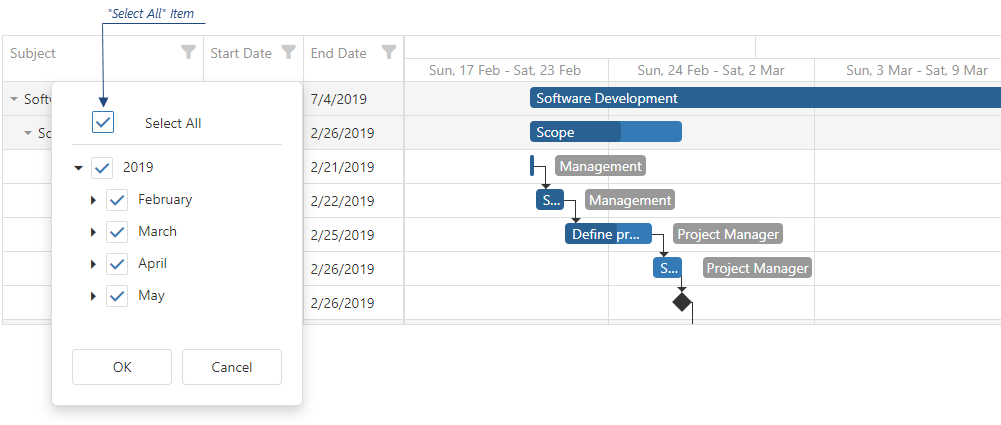
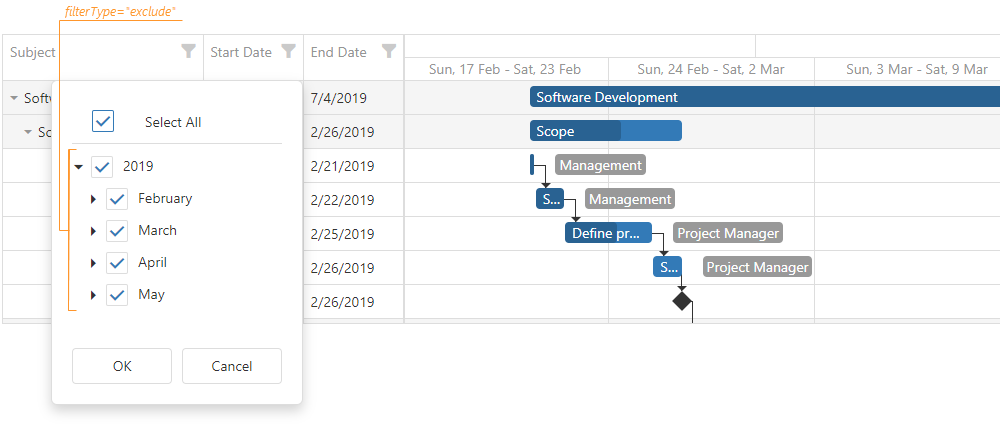
upd1.1

diff --git a/concepts/05 UI Components/Gantt/20 Filter Data/2 Header Filter.md b/concepts/05 UI Components/Gantt/20 Filter Data/2 Header Filter.md
@@ -1,6 +1,6 @@
 The **Gantt** component allows users to filter a particular column by values listed in a pop-up window. Users click the filter icon to invoke the window and select the necessary filter criteria for a column. 
 
-Set the **headerFilter**.[visible](/Documentation/ApiReference/UI_Components/dxGantt/Configuration/headerFilter/#visible) property to **true** to display filter icons for all columns. Assign the [allowHeaderFiltering](/Documentation/ApiReference/UI_Components/dxGantt/Configuration/columns/#allowHeaderFiltering) property to **false** for a column to disable its filter icon. If this property is not specified, it inherits a value of the [allowFiltering](/Documentation/ApiReference/UI_Components/dxGantt/Configuration/columns/#allowFiltering) property.
+Set the **headerFilter**.[visible](/Documentation/ApiReference/UI_Components/dxGantt/Configuration/headerFilter/#visible) property to **true** to display filter icons for all columns. Assign **false** to the [allowHeaderFiltering](/Documentation/ApiReference/UI_Components/dxGantt/Configuration/columns/#allowHeaderFiltering) property for a column to disable its filter icon. If this property is not specified, it inherits a value of the [allowFiltering](/Documentation/ApiReference/UI_Components/dxGantt/Configuration/columns/#allowFiltering) property.
 
 ![DevExtreme HTML5 JavaScript jQuery Knockout Angular Gantt Filtering HeaderFilter](/images/Gantt/Visual_elements/Header_filter.png)
 
@@ -8,7 +8,7 @@ Set the **headerFilter**.[visible](/Documentation/ApiReference/UI_Components/dxG
     url: "https://js.devexpress.com/Demos/WidgetsGallery/Demo/Gantt/HeaderFilter/"
 }
 
-You can use a column's [filterType](/Documentation/ApiReference/UI_Components/dxGantt/Configuration/columns/#filterType) property to set the initial settings of header fiter items: all checked (`filterType=exclude`) or all unchecked (`filterType=include`).
+You can use a column's [filterType](/Documentation/ApiReference/UI_Components/dxGantt/Configuration/columns/#filterType) property to set initial settings of header fiter items: all checked (`filterType=exclude`) or all unchecked (`filterType=include`).
 
 ![DevExtreme HTML5 JavaScript jQuery Knockout Angular Gantt Filtering HeaderFilter](/images/Gantt/Visual_elements/Header_filter_SelectAll.png)
 
@@ -59,6 +59,7 @@ Users can search for the filter values in the header filter. Enable the **header
             [visible]="true"
             [allowSearch]="true">
         </dxo-header-filter>
+
         <dxi-column 
     	    dataField="title"
             caption="Subject"
@@ -67,6 +68,7 @@ Users can search for the filter values in the header filter. Enable the **header
             <dxo-header-filter 
                 searchMode="startswith"
             />
+            
         </dxi-column>
 
         <dxi-column
@@ -84,6 +86,7 @@ Users can search for the filter values in the header filter. Enable the **header
             <dxo-header-filter 
                 groupInterval="month"
             />
+
         </dxi-column>
         <!--...-->
     </dx-gantt>
@@ -126,6 +129,7 @@ Users can search for the filter values in the header filter. Enable the **header
                 :visible="true"
                 allowSearch="true"
             />
+            
             <DxColumn
                 data-field="title"
                 caption="Subject"
@@ -134,6 +138,7 @@ Users can search for the filter values in the header filter. Enable the **header
                 <DxGanttHeaderFilter
                     searchMode="startswith"
                 />
+
             </DxColumn>
             
             <DxColumn
@@ -145,8 +150,10 @@ Users can search for the filter values in the header filter. Enable the **header
             <DxColumn
                 data-field="start"
                 caption="Start Date">
+
                 <DxGanttHeaderFilter
         	        groupInterval="month" />
+
             </DxColumn>
 
             <!--...-->
@@ -190,6 +197,7 @@ Users can search for the filter values in the header filter. Enable the **header
                 <HeaderFilter
                     visible={true}
                     allowSearch={true}>
+
                 <Column 
                     dataField="title"
                     caption="Subject"
@@ -198,20 +206,23 @@ Users can search for the filter values in the header filter. Enable the **header
                     <HeaderFilter
                         searchMode="startswith">
                     </HeaderFilter>
+
                 </Column>
                 
                 <Column
                     dataField="start"
                     caption="Start Date"
-                    allowHeaderFiltering= {false}>
+                    allowHeaderFiltering={false}>
                 </Column>
 
                 <Column 
                     dataField="end"
                     caption="End Date">
+
       	            <HeaderFilter
                         groupInterval="month"
                     />
+
                 </Column>
                 {/* ... */}
             </Gantt>
@@ -228,8 +239,8 @@ Users can search for the filter values in the header filter. Enable the **header
             columns.AddFor(m => m.Title)
                 .DataField("title")
                 .Caption("Subject")
-                .FilterType("Exclude")
-                .HeaderFilter(headerFilter => headerFilter.SearchMode("StartsWith"));
+                .FilterType(FilterType.Exclude)
+                .HeaderFilter(headerFilter => headerFilter.SearchMode(CollectionSearchMode.StartsWith));
 
             columns.AddFor(m => m.Title)
                 .DataField("start")
@@ -239,7 +250,7 @@ Users can search for the filter values in the header filter. Enable the **header
             columns.AddFor(m => m.Title)
                 .DataField("end")
                 .Caption("End Date")
-                .HeaderFilter(headerFilter => headerFilter.GroupInterval("Month"));
+                .HeaderFilter(headerFilter => headerFilter.GroupInterval(HeaderFilterGroupInterval.Month));
             @* ... *@
         })
         .HeaderFilter(e => {
@@ -258,8 +269,8 @@ Users can search for the filter values in the header filter. Enable the **header
             columns.AddFor(m => m.Title)
                 .DataField("title")
                 .Caption("Subject")
-                .FilterType("Exclude")
-                .HeaderFilter(headerFilter => headerFilter.SearchMode("StartsWith"));
+                .FilterType(FilterType.Exclude)
+                .HeaderFilter(headerFilter => headerFilter.SearchMode(CollectionSearchMode.StartsWith));
 
             columns.AddFor(m => m.Title)
                 .DataField("start")
@@ -269,11 +280,11 @@ Users can search for the filter values in the header filter. Enable the **header
             columns.AddFor(m => m.Title)
                 .DataField("end")
                 .Caption("End Date")
-                .HeaderFilter(headerFilter => headerFilter.GroupInterval("Month"));
+                .HeaderFilter(headerFilter => headerFilter.GroupInterval(HeaderFilterGroupInterval.Month));
             @* ... *@
         })
         .HeaderFilter(e => {
-            e.Visible(true)
+            e.Visible(true);
             e.allowSearch(true);
         })
         
@@ -314,6 +325,7 @@ Specify a column's [filterValues](/Documentation/ApiReference/UI_Components/dxGa
         <dxo-header-filter 
             [visible]="true">
         </dxo-header-filter>
+        
         <dxi-column 
     	    dataField="title"
             caption="Subject"
@@ -449,7 +461,7 @@ Specify a column's [filterValues](/Documentation/ApiReference/UI_Components/dxGa
         .HeaderFilter(e => {
             e.Visible(true)
         })
-        
+
         // ...
     )
 

diff --git a/concepts/05 UI Components/Gantt/20 Filter Data/1 Filter Row.md b/concepts/05 UI Components/Gantt/20 Filter Data/1 Filter Row.md
@@ -1,4 +1,6 @@
-The **Gantt** component allows users to filter columns by filter row values. To apply filter criteria, users enter a value in a column's filter row cell or select the value with a specific editor. Set the **filterRow**.[visible](/Documentation/ApiReference/UI_Components/dxGantt/Configuration/filterRow/#visible) property to **true** to display the filter row.
+The **Gantt** component allows users to filter columns by filter row values. To apply filter criteria, users enter a value in a column's filter row cell or select the value with a specific editor. 
+
+Set the **filterRow**.[visible](/Documentation/ApiReference/UI_Components/dxGantt/Configuration/filterRow/#visible) property to **true** to display the filter row. Assign **false** to the **columns.**[allowFiltering](/Documentation/ApiReference/UI_Components/dxGantt/Configuration/columns/#allowFiltering) property to disable the filtering feature for a column. 
 
 ![DevExtreme HTML5 JavaScript jQuery Knockout Angular Gantt Filtering FilterRow](/images/Gantt/Visual_elements/Filter_row.png)
 
@@ -6,7 +8,7 @@ The **Gantt** component allows users to filter columns by filter row values. To 
     url: "https://js.devexpress.com/Demos/WidgetsGallery/Demo/Gantt/FilterRow/"
 }
 
-The filter row contains the magnifier icon in its cells. Users click this icon to select the desired filter operation. Set the [showOperationChooser](/Documentation/21_2/ApiReference/UI_Components/dxGantt/Configuration/filterRow/#showOperationChooser) property to **false** for a column to hide the magnifier icon. 
+The filter row contains a magnifier icon in its cells. Users click this icon to select the desired filter operation. Set the [showOperationChooser](/Documentation/21_2/ApiReference/UI_Components/dxGantt/Configuration/filterRow/#showOperationChooser) property to **false** for a column to hide the magnifier icon. 
 
 ![DevExtreme HTML5 JavaScript jQuery Knockout Angular Gantt Filtering FilterRow](/images/Gantt/Visual_elements/Filter_row_operation_chooser.png)
 
@@ -16,7 +18,7 @@ The component automatically applies an entered or selected filter. To apply the 
 
 The **Gantt** allows you to set initial filter settings in code. 
 
-Specify a column's [filterValue](/Documentation/ApiReference/UI_Components/dxGantt/Configuration/columns/#filterValue) property to apply the filter criteria to the column. Otherwise, to disable a filter row cell for a specific column, set its [allowFiltering](/Documentation/ApiReference/UI_Components/dxGantt/Configuration/columns/#allowFiltering) property to **false**.
+Specify a column's [filterValue](/Documentation/ApiReference/UI_Components/dxGantt/Configuration/columns/#filterValue) property to apply filter criteria to the column.
 
 ---
 ##### jQuery
